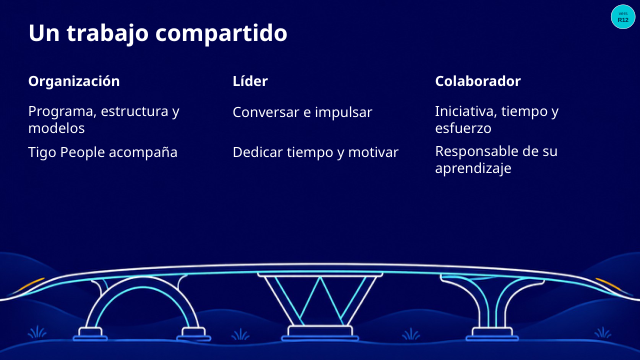
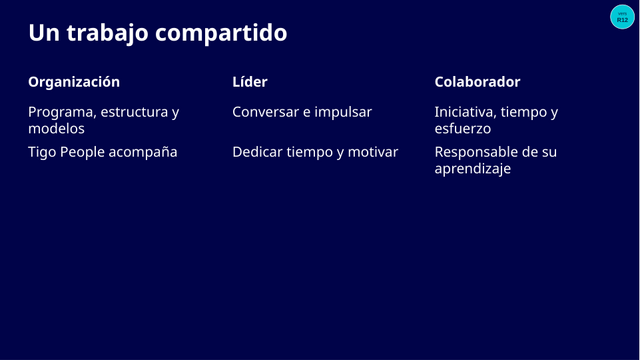
D036: retirar puente de tres miniaturas donantes y cerrar contact007; conservar voz y trazabilidad

diff --git a/010_SucesionNextGenConnectors/UniversoDeSlides/069_Sucesion_R13_Rescates_aprobados_PENDIENTE_CONCILIACION/008/R13_Rescates_aprobados_73e337f3__008.md b/010_SucesionNextGenConnectors/UniversoDeSlides/069_Sucesion_R13_Rescates_aprobados_PENDIENTE_CONCILIACION/008/R13_Rescates_aprobados_73e337f3__008.md
@@ -4,6 +4,17 @@ Montaje de rescates · pendiente de conciliación. Las propuestas fueron aprobad
 
 ![008 · ID 263 · montaje de rescates](https://raw.githubusercontent.com/nkrikamo/RandyPublic/main/010_SucesionNextGenConnectors/UniversoDeSlides/069_Sucesion_R13_Rescates_aprobados_PENDIENTE_CONCILIACION/008/R13_Rescates_aprobados_73e337f3__008.png)
 
+## Actualización vigente · Decisión036 · 2026-11-23
+
+Randy conserva PROGRAMA007 en R13B y traslada únicamente el puente a **R13B Addendum, posición021**, sin textos ni locución, para reutilización. El puente fue retirado de esta diapositiva donante. Se preservan su texto, su locución y los demás elementos; el fondo de sustitución es azul sólido `#010349`, tomado del fondo del recurso original.
+
[1 lines of base64/hex data omitted]
+- Posición de esta diapositiva: 008; la posición no sustituye un ID editorial. No se asigna un ID editorial nuevo.
[1 lines of base64/hex data omitted]
+- Exportación actual: LibreOffice → PDF → PNG; reducción Lanczos a 640 × 360, RGB. Comprobación técnica, sin nueva aprobación editorial del diseño donante.
+- La trazabilidad y los juicios anteriores se conservan abajo como historial. Sus hashes, versiones y comentarios visuales describen la imagen anterior; no son los valores ni el veredicto de este PNG actualizado. La voz literal no cambia.
+- Recuperación: versiones anteriores de la PPT y commit público anterior `e7cdb79241970628b828f956bafa0b2f87f01602`. No se mantiene otra copia activa del puente en este archivo.
+
 ## Voz en off literal
 
 El colaborador que designes como sucesor será el principal responsable de su propio desarrollo. Le corresponde aceptar la iniciativa y comprometerse con su aprendizaje, sabiendo que requerirá dedicarle esfuerzo, tiempo y otros recursos.

diff --git a/010_SucesionNextGenConnectors/UniversoDeSlides/069_Sucesion_R13_Rescates_aprobados_PENDIENTE_CONCILIACION/007/R13_Rescates_aprobados_73e337f3__007.md b/010_SucesionNextGenConnectors/UniversoDeSlides/069_Sucesion_R13_Rescates_aprobados_PENDIENTE_CONCILIACION/007/R13_Rescates_aprobados_73e337f3__007.md
@@ -4,6 +4,17 @@ Montaje de rescates · pendiente de conciliación. Las propuestas fueron aprobad
 
 ![007 · ID 262 · montaje de rescates](https://raw.githubusercontent.com/nkrikamo/RandyPublic/main/010_SucesionNextGenConnectors/UniversoDeSlides/069_Sucesion_R13_Rescates_aprobados_PENDIENTE_CONCILIACION/007/R13_Rescates_aprobados_73e337f3__007.png)
 
+## Actualización vigente · Decisión036 · 2026-11-23
+
+Randy conserva PROGRAMA007 en R13B y traslada únicamente el puente a **R13B Addendum, posición021**, sin textos ni locución, para reutilización. El puente fue retirado de esta diapositiva donante. Se preservan su texto, su locución y los demás elementos; el fondo de sustitución es azul sólido `#010349`, tomado del fondo del recurso original.
+
[1 lines of base64/hex data omitted]
+- Posición de esta diapositiva: 007; la posición no sustituye un ID editorial. Procedencia editorial del fragmento: E003.5.
[1 lines of base64/hex data omitted]
+- Exportación actual: LibreOffice → PDF → PNG; reducción Lanczos a 640 × 360, RGB. Comprobación técnica, sin nueva aprobación editorial del diseño donante.
+- La trazabilidad y los juicios anteriores se conservan abajo como historial. Sus hashes, versiones y comentarios visuales describen la imagen anterior; no son los valores ni el veredicto de este PNG actualizado. La voz literal no cambia.
+- Recuperación: versiones anteriores de la PPT y commit público anterior `e7cdb79241970628b828f956bafa0b2f87f01602`. No se mantiene otra copia activa del puente en este archivo.
+
 ## Voz en off literal
 
 Estos beneficios son el fruto de la sinergia entre los roles que debe asumir cada uno en el programa de Next Gen.

diff --git a/010_SucesionNextGenConnectors/UniversoDeSlides/007_NextGen_R12_experimento_visual_73_ENTREGA/007_NextGen_R12_experimento_visual_73_ENTREGA__004.md b/010_SucesionNextGenConnectors/UniversoDeSlides/007_NextGen_R12_experimento_visual_73_ENTREGA/007_NextGen_R12_experimento_visual_73_ENTREGA__004.md
@@ -1,5 +1,16 @@
 # R12 · diapositiva 004
 
+## Actualización vigente · Decisión036 · 2026-11-23
+
+Randy conserva PROGRAMA007 en R13B y traslada únicamente el puente a **R13B Addendum, posición021**, sin textos ni locución, para reutilización. El puente fue retirado de esta diapositiva donante. Se preservan su texto, su locución y los demás elementos; el fondo de sustitución es azul sólido `#010349`, tomado del fondo del recurso original.
+
[1 lines of base64/hex data omitted]
+- Posición de esta diapositiva: 004; la posición no sustituye un ID editorial. No se asigna un ID editorial nuevo.
[1 lines of base64/hex data omitted]
+- Exportación actual: LibreOffice → PDF → PNG; reducción Lanczos a 640 × 360, RGB. Comprobación técnica, sin nueva aprobación editorial del diseño donante.
+- La trazabilidad y los juicios anteriores se conservan abajo como historial. Sus hashes, versiones y comentarios visuales describen la imagen anterior; no son los valores ni el veredicto de este PNG actualizado. La voz literal no cambia.
+- Recuperación: versiones anteriores de la PPT y commit público anterior `e7cdb79241970628b828f956bafa0b2f87f01602`. No se mantiene otra copia activa del puente en este archivo.
+
 ## Voz en off literal
 
 Estos beneficios son el fruto de la sinergia entre los roles que debe asumir cada uno en el programa de Next Gen.

diff --git a/010_SucesionNextGenConnectors/UniversoDeSlides/069_Sucesion_R13_Rescates_aprobados_PENDIENTE_CONCILIACION/README.md b/010_SucesionNextGenConnectors/UniversoDeSlides/069_Sucesion_R13_Rescates_aprobados_PENDIENTE_CONCILIACION/README.md
@@ -1,4 +1,10 @@
 # Rescates de R12 para R13 · montaje pendiente de conciliación
+## Vigente · Decisión036 · 2026-11-23
+
+PROGRAMA007 se conserva en R13B. El puente se trasladó sin textos ni locución a **R13B Addendum021** y se retiró de Rescates007/008 y de R12004. Las miniaturas007 y008 de este índice muestran ahora las mismas diapositivas sin el puente; textos y locuciones se conservan. El contact007 cerrado se retiró de la rama activa, con recuperación en Git. No se publica otra copia del puente.
+
+Las tablas, hashes globales y juicios de la publicación original siguientes son historial; las fichas007/008 y las entradas correspondientes del manifiesto incluyen los hashes actuales y la actualización parcial. Esto no vuelve a aprobar las propuestas restantes.
+
 
 **31 láminas compuestas y 9 capas obtenidas mediante edición generativa**, publicadas como PNG con su Markdown del mismo nombre base. No son 31 ilustraciones nuevas generadas por IA.
 
